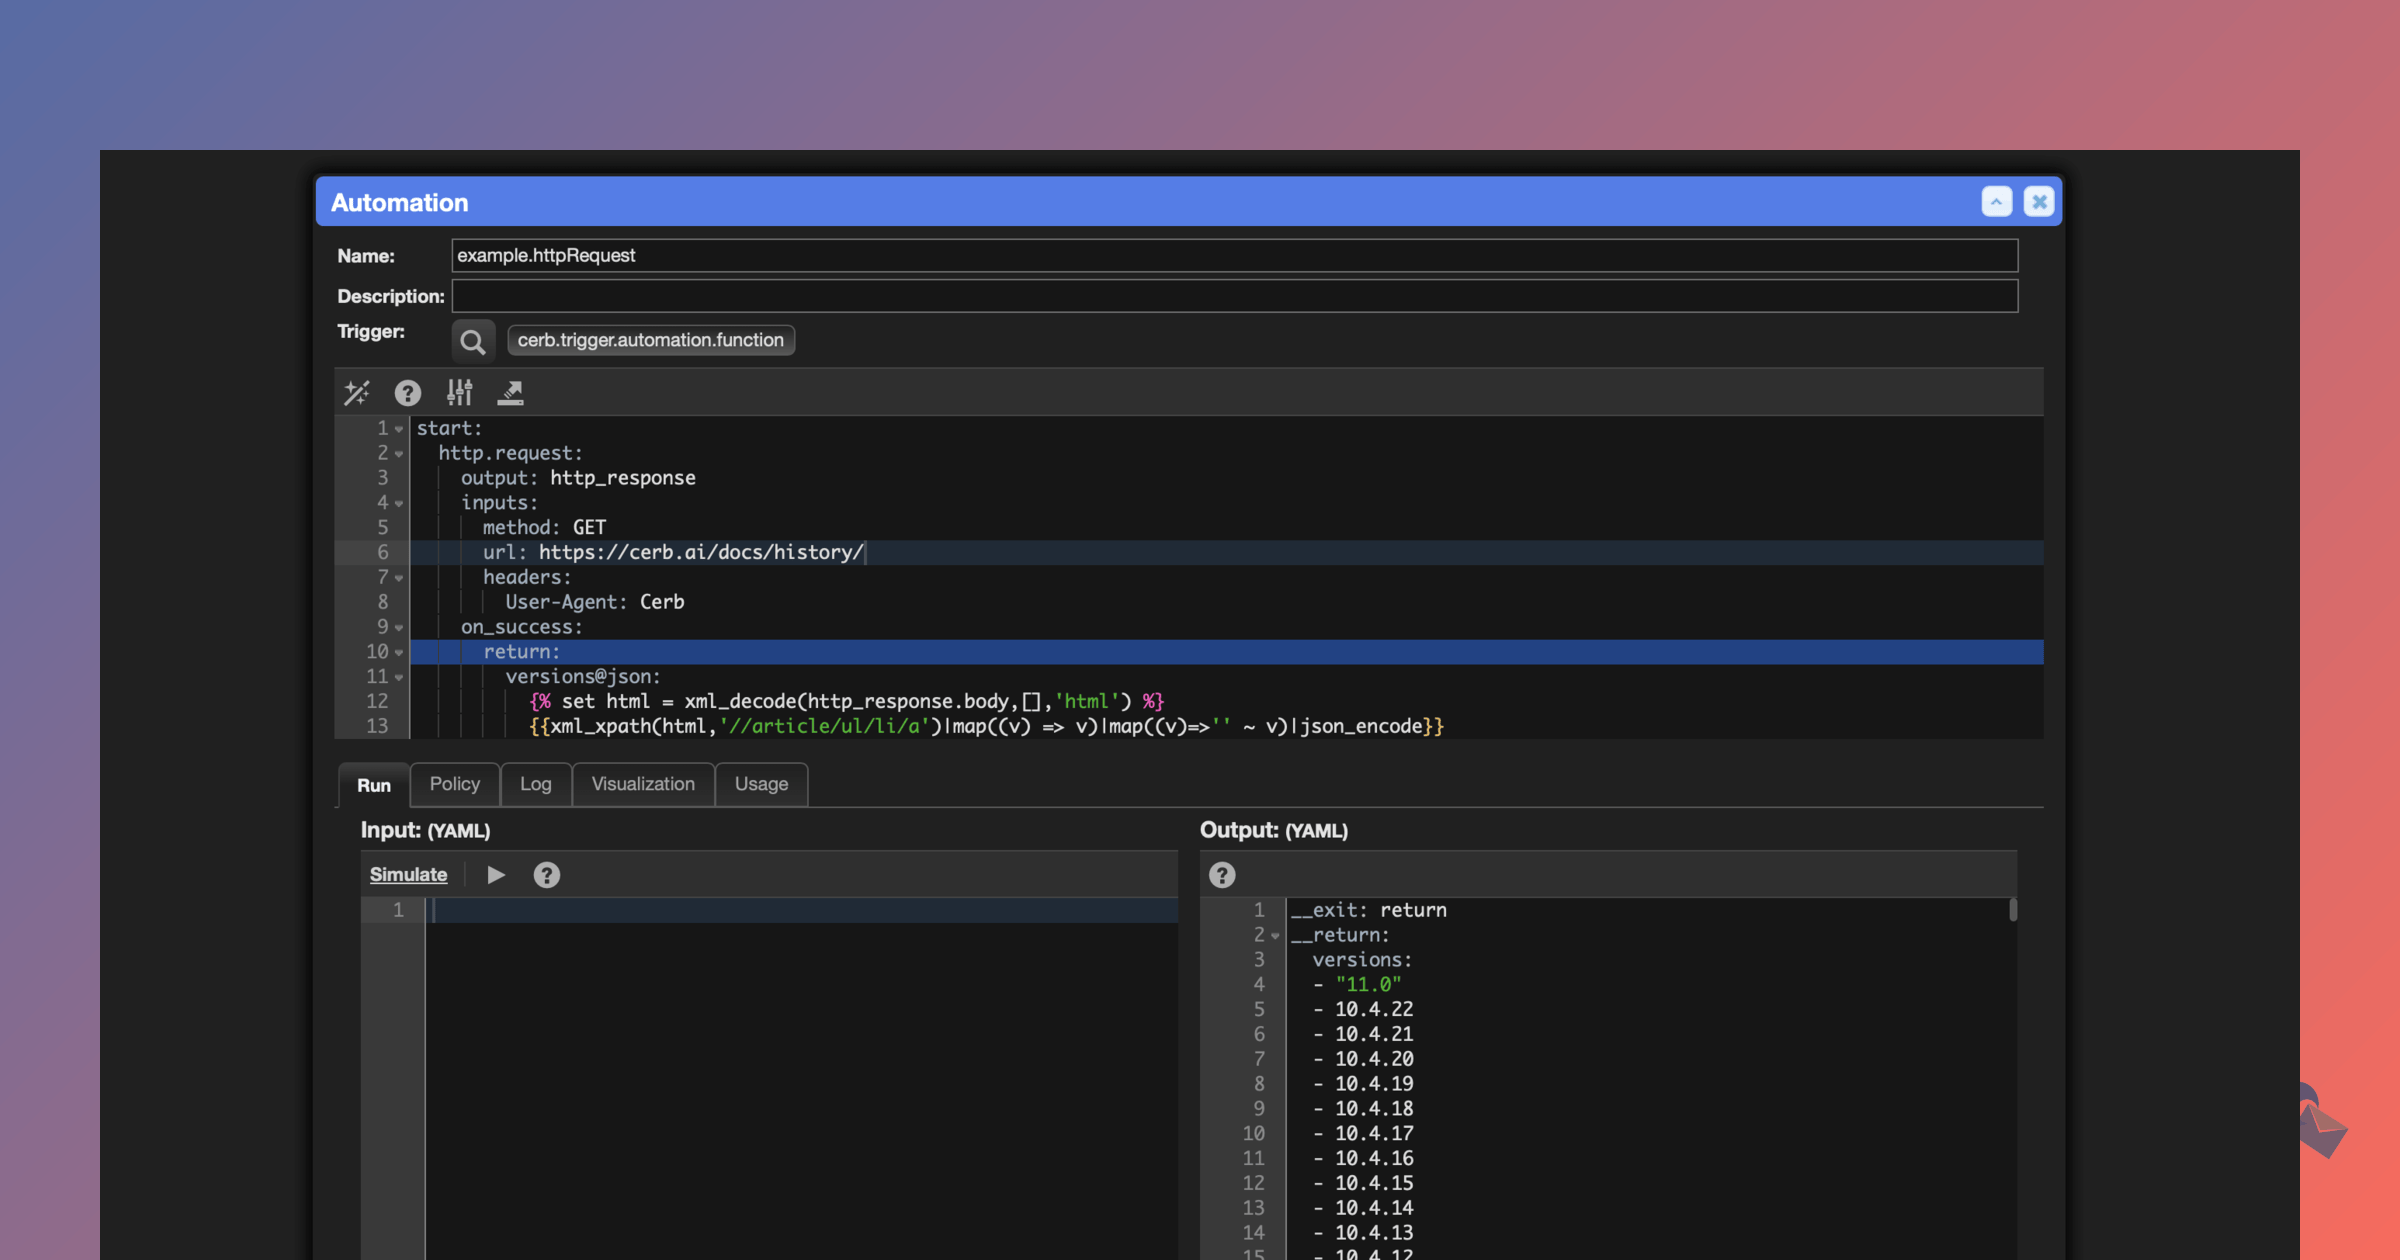
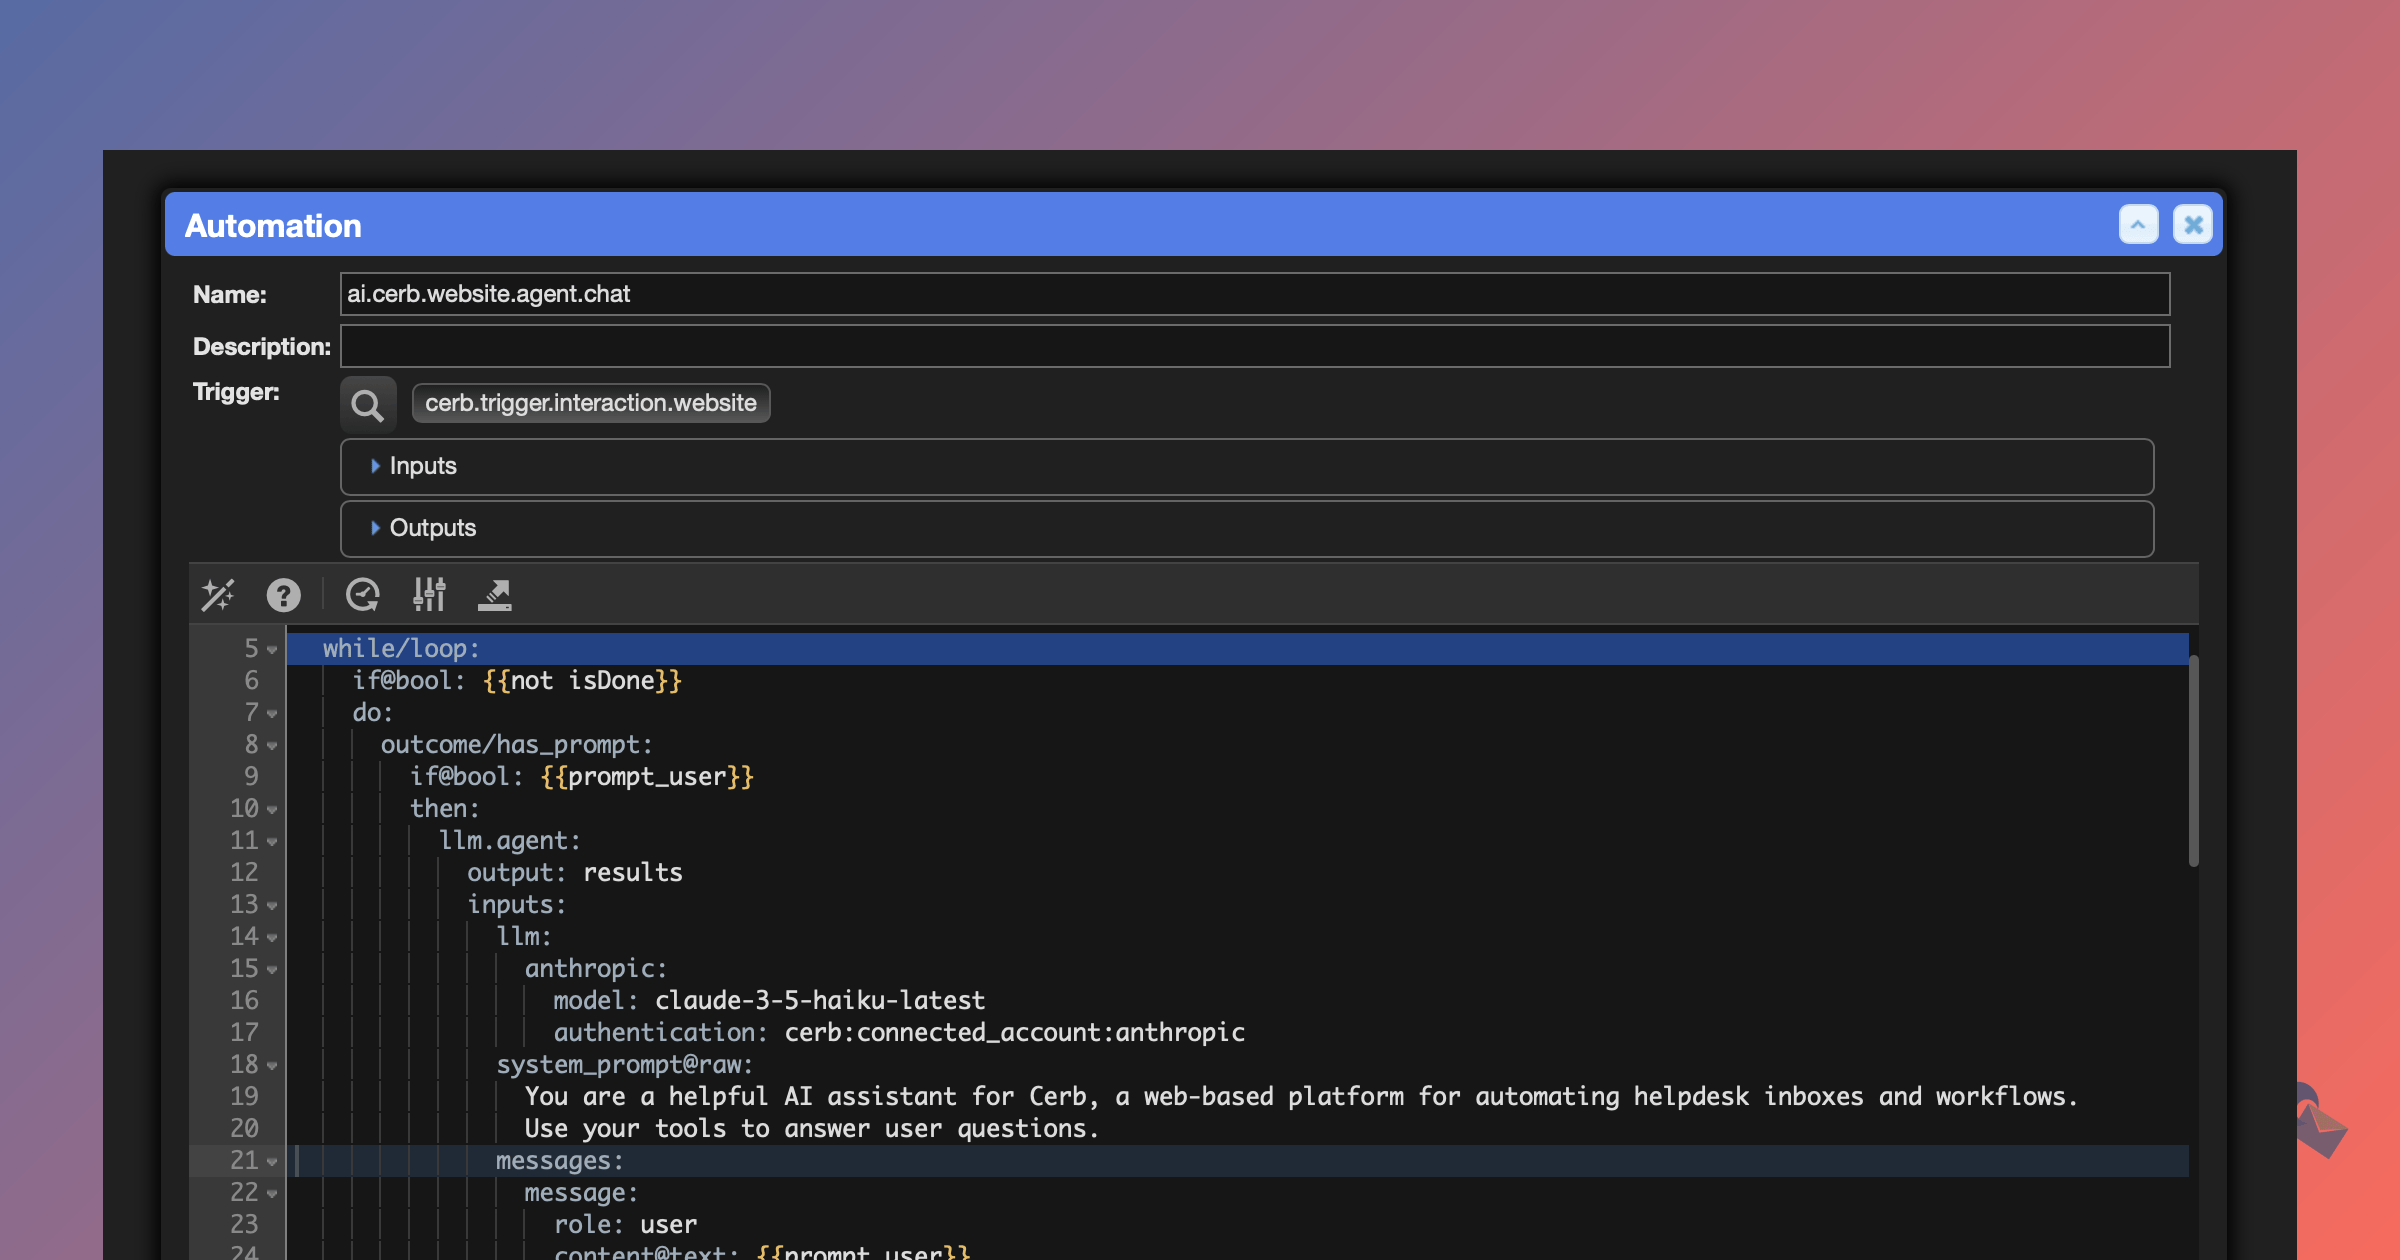
[Home] Streamlined the home page and simplified the description of Cerb's main functionality.

Changed region(s): [[0.0625, 0.1238, 0.9375, 1.0], [0.5312, 0.5571, 0.5938, 0.5881]]

diff --git a/index.html b/index.html
@@ -12,12 +12,12 @@ summary: "This page provides an overview of Cerb, an automation toolkit for cust
   free trials via Docker or Cerb Cloud and provides access to its source code on GitHub. Additionally, the
   page encourages users to subscribe to a newsletter for updates and resources related to Cerb."
 jumbotron:
-  title: Automate customer service inboxes and workflows
-  tagline: Manage high-volume email with automation, AI, personalized dashboards, and endless API integrations.
+  title: Cerb automates customer service inboxes and workflows
+  tagline: Build helpful AI agents, share high-productivity workspaces, and integrate with any API.
   style: jumbotron-center
 ---
 
-<div class="grid feature no-gutters" style="margin-bottom:50px;">
+<div class="grid no-gutters" style="margin-bottom:50px;">
 	<div class="unit one-third align-center" style="margin-top:10px;">
 		<a style="font-size:130%;color:black;font-weight:bold;" href="/docs/history/">Latest versions:</a>
 		<br>
@@ -35,109 +35,161 @@ jumbotron:
 </div>
 
 <div class="home features">
+	{% comment %}
 	<div class="feature">
 		<div class="align-center">
-			<p>
-				<b>Cerb</b> automates customer service inboxes and workflows.
-				It has evolved continuously since 2002 based on the feedback of thousands of teams; from solo founders to 1,000+ person enterprises managing millions of customer requests.
-			</p>
+			<h1>FEATURES</h1>
+		</div>
+	</div>
+	{% endcomment %}
 
-			<p>
-				Cerb integrates with any API-based service.
-				It can <a href="/docs/automations/">automate</a> nearly any repetitive digital process with its specialized <a href="/docs/kata/">KATA</a> language and browser-based coding tools.
-				Any toolbar in the UI can be extended with <a href="/docs/interactions/">interactive</a> multistep workflows that include human approval.
-			</p>
+	{% comment %}
+	<div class="feature half">
+		<div class="align-left">
+			<h2>Highlights</h2>
+			<ul>
+				<li>23+ years of continuous development</li>
+				<li>100% source-available license</li>
+				<li>Your first self-hosted seat is free forever</li>
+				<li>Scalable from solo founders to large enterprises</li>
+				<li>Deploy self-hosted or in Cerb Cloud</li>
+			</ul>
+		</div>
+	</div>
+	{% endcomment %}
 
-			<p>
-				Teams and individuals can build a personalized "mission control" using a wide array of configurable widgets to stay focused on their most important tasks.
-				Custom records and fields organize of any kind of task (email, social posts, orders, surveys, calls, tasks, text messages).
-				Pre-built solutions can be easily shared within the community using <a href="/resources/workflows/">workflows</a>.
-			</p>
+	<div class="feature half">
+		<div>
+			<a href="/docs/workspaces/">
+				<img src="/assets/images/home/features/thumbs/mission-control.png" width="1200" height="630" class="screenshot" style="width:100%;height:auto;">
+			</a>
+			<h2>Collaborative workspaces</h2>
+			<ul>
+				<li>Transform email and social accounts into a team inbox</li>
+				<li>Enable intelligent routing, assignment, and prioritization</li>
+				<li>Monitor tasks with real-time worklists and dashboards</li>
+				<li>Filter and manipulate data with powerful search and data queries</li>
+				<li>Follow notifications from any watched record activity or @mention</li>
+				<li>Bring your own data with custom records and fields</li>
+			</ul>
+		</div>
+	</div>
 
+	<div class="feature half">
+		<div class="align-left">
+			<a href="/docs/automations/">
+				<img src="/assets/images/home/features/thumbs/automate-workflows.png" width="1200" height="630" class="screenshot" style="width:100%;height:auto;">
+			</a>
+			<h2>Automations</h2>
+			<ul>
+				<li>Code from your browser with an integrated editor and debugger</li>
+				<li>Build rapidly with KATA -- our high-level automation language</li>
+				<li>Ditch the training wheels of vibe coding &amp; point-and-click tools</li>
+				<li>Trigger your code from events and interactive toolbars</li>
+				<li>Integrate with any web-based API</li>
+				<li>No programming experience required -- we'll help you learn</li>
+			</ul>
+		</div>
+	</div>
+
+	<div class="feature half">
+		<div class="align-left">
+			<a href="/docs/interactions/">
+				<img src="/assets/images/home/features/thumbs/interactive-agents.png" width="1200" height="630" class="screenshot" style="width:100%;height:auto;">
+			</a>
+			<h2>AI agents</h2>
+			<ul>
+				<li>Create conversational agents to assist workers and clients</li>
+				<li>Integrate with state-of-the-art language models from multiple providers</li>
+				<li>Give agents tools to reference knowledge and perform actions</li>
+				<li>Review chat transcripts to continuously improve agents</li>
+				<li>Transition seamlessly between chat and form-based interactions</li>
+				<li>Deploy agents on any website</li>
+			</ul>
+		</div>
+	</div>
+
+	<div class="feature half">
+		<div class="align-left">
+			<a href="/resources/workflows/">
+				<img src="/assets/images/home/features/thumbs/share-workflows.png" width="1200" height="630" class="screenshot" style="width:100%;height:auto;">
+			</a>
+			<h2>Versioned workflows</h2>
+			<ul>
+				<li>Build new features using Cerb's toolkit</li>
+				<li>Group related records and configuration into a workflow</li>
+				<li>Iterate confidently with a versioned change history</li>
+				<li>Synchronize changes through development, staging, and production</li>
+				<li>Enable pre-built workflows to save time</li>
+				<li>Collaborate with us to build exactly what you need</li>
+			</ul>
+		</div>
+	</div>
+
+	<div class="feature half">
+		<div class="align-left">
 			<p>
-				Try Cerb in <a href="/docs/installation/docker/">Docker</a> or <a href="/pricing/">Cerb Cloud</a> for free with no time limit.
-				100% of the source code is available on <a href="https://github.com/cerb/cerb-release/">GitHub</a>.
+				<a href="/solutions/#integrations">
+					<img src="/assets/images/home/features/thumbs/connected-accounts.png" width="1200" height="630" class="screenshot" style="width:100%;height:auto;">
+				</a>
 			</p>
+			<h2>Endless integrations</h2>
+			<ul>
+				<li>Use pre-configured connected services or create your own</li>
+				<li>Auth with OAuth, API keys, bearer tokens, HTTP basic, AWS, and more</li>
+				<li>Enable single sign-on with OpenID Connect and SAML identity providers</li>
+				<li>Trigger and catch webhooks for real-time event handling</li>
+				<li>Manage data through Cerb's OAuth2 REST API</li>
+				<li>Create customer-facing tools with community portals</li>
+			</ul>
+		</div>
+	</div>
+
+	<div class="feature half">
+		<div class="align-left">
+		</div>
+	</div>
+
+	<div class="feature">
+		<div class="align-center">
+			<h1>Deploy self-hosted or in Cerb Cloud</h1>
 		</div>
 	</div>
 
 	<div class="feature half">
 		<div class="align-center">
-			<h2>Build a personalized mission control</h2>
-			<p>
-				<a href="/docs/workspaces/">
-					<img src="/assets/images/home/features/mission-control.png" width="2400" height="1260" class="screenshot" style="width:100%;height:auto;">
-				</a>
-				<br>
-				Turn any email account into a team inbox.
-				Route, assign, and prioritize incoming email using automations.
-				Build and share custom <a href="/docs/workspaces/">workspaces</a> with <a href="/docs/worklists/">worklists</a>, <a href="/docs/sheets/">tables</a>, <a href="/docs/dashboards/widgets/chart-kata/">charts</a>, calendars, time-series data, <a href="/docs/interactions/">interactive automated shortcuts</a>, and more.
-				Use the built-in <a href="/docs/records/types/">record types</a> or <a href="/resources/guides/">synchronize data</a> with third-party sources.
-				Filter data with <a href="/docs/search/">search queries</a> and <a href="/docs/data-queries/">data queries</a>.
-				{% comment %}
-				Rather than having to repeatedly search for the same set of records, you can create a fully customizable <a href="/docs/worklists/">worklist</a> and add it to one of your <a href="/docs/workspaces/">workspaces</a>.
-				Customize the layout of <a href="/docs/profiles/">record pages</a> and <a href="/docs/cards/">card popups</a>.
-				Add <a href="/docs/dashboards/">dashboards</a> of widgets for visualizing charts, tables, time-series data, calendars, clocks, counters, gauges, worklists, and more.
-				Use <a href="/docs/data-queries/">data queries</a> to transform data from your records.
-				Import and display useful information from external data sources.
-				Create your own shortcuts to automate repetitive actions.
-				{% endcomment %}
-			</p>
+			<a href="/docs/installation/docker/" class="cerb-button">
+				Try Cerb in Docker
+			</a>
+			<ul>
+				<li>Installation takes less than 5 minutes</li>
+				<li>Your first self-hosted seat is free forever with no license or registration required</li>
+				<li>Add seats as your team grows</li>
+				<li>Every member of your team can run free local copies of Cerb for testing, development, and staging</li>
+				<li>Downgrade to a community license from self-hosted or Cerb Cloud at any time and retain permanent free access to your data</li>
+				<li>Cerb launches a guided tutorial on your first login</li>
+				<li>Switch seamlessly to Cerb Cloud at any time</li>
+			</ul>
 		</div>
 	</div>
 
 	<div class="feature half">
 		<div class="align-center">
-			<h2>Automate repetitive workflows</h2>
-			<p>
-				<a href="/docs/automations/">
-					<img src="/assets/images/home/features/automate-workflows.png" width="2400" height="1260" class="screenshot" style="width:100%;height:auto;">
-				</a>
-				<br>
-				Create sophisticated <a href="/docs/automations/">automations</a> using Cerb's low-code <a href="/docs/kata/">KATA</a> language and browser-based code editor.
-				Automate any action available in Cerb.
-				Generate dynamic values using inputs, placeholders, and <a href="/docs/scripting/">scripting</a>.
-				Trigger automations from <a href="/docs/automations/#events">events</a> or <a href="/docs/toolbars/">toolbars</a>.
-				Integrate with most web-based APIs using <a href="/docs/connected-services/">connected services</a> (AWS, Slack, Twilio, OpenAI, Hugging Face, GitHub, Dropbox, LinkedIn, Salesforce, and more).
-			</p>
-		</div>
-	</div>
-
-	<div class="feature half">
-		<div class="align-center">
-			<h2>Create interactive agents</h2>
-			<p>
-				<a href="/docs/interactions/">
-					<img src="/assets/images/home/features/interactive-agents.png" width="2400" height="1260" class="screenshot" style="width:100%;height:auto;">
-				</a>
-				<br>
-				Create multi-step dynamic <a href="/docs/interactions/">interactions</a> that gather input and present output with more than just text -- Markdown, data grids, images, maps, files, and more.
-				Integrate with models from Hugging Face, Ollama, OpenAI, <a href="/workflows/cerb.integrations.aws_bedrock.profile_images/">Amazon Bedrock</a>, and Stability AI.
-				<a href="/guides/machine-learning/question-answering/faq-bot-chatgpt/">Implement retrieval-augmented generation</a> using your existing self-help resources (docs, FAQs, articles).
-			</p>
-		</div>
-	</div>
-
-	<div class="feature half">
-		<div class="align-center">
-			<h2>Extend, integrate, and share</h2>
-			<p>
-				<a href="/resources/workflows/">
-					<img src="/assets/images/home/features/share-workflows.png" width="2400" height="1260" class="screenshot" style="width:100%;height:auto;">
-				</a>
-				<br>
-				Use <a href="/resources/workflows/">workflow</a> templates to build your own features with continuous integration and a versioned change history.
-				Keep multiple instances of Cerb in sync. Build workflows in development, test in staging, then deploy in production.
-				Share your solutions with the community.
-				Enable single sign-on functionality with any <a href="/guides/sso/azure-openid/">OpenID Connect</a> or <a href="/guides/sso/google-saml/">SAML</a> identity provider.
-				Trigger and catch <a href="/docs/webhooks/">webhooks</a> to handle real-time events with other services.
-				Access and manage your data from any service with Cerb's OAuth-based <a href="/docs/api/">REST API</a>.
-				Build customer-facing tools and services with <a href="/docs/portals/">community portals</a>.
-			</p>
+			<button type="button" class="cerb-button" data-cerb-interaction="signup">
+				Start a free Cerb Cloud trial
+			</button>
+			<ul>
+				<li>Highly available, secure, monitored, and scalable as a fully managed service</li>
+				<li>No time-limit as long as you're active, and no credit card is required</li>
+				<li>Deploy to secure servers in the United States, Europe, or Asia-Pacific</li>
+				<li>Compliant with EU-U.S. Data Privacy Framework (DPF) and GDPR</li>
+				<li>Automated, redundant, point-in-time backups with data recovery</li>
+				<li>Cerb Cloud SMTP for highly-deliverable, high-volume outgoing mail with SPF, DKIM, DMARC (or use your own mail server)</li>
+				<li>Cerb Cloud MX for instant delivery of inbound mail (or check any POP3/IMAP mailboxes)</li>
+				<li>Includes hosting for unlimited community portals (conversational bots, Support Centers)</li>
+				<li>Optionally bring your own domain name (e.g. support.example.com)</li>
+				<li>Switch seamlessly to self-hosted at any time</li>
+			</ul>
 		</div>
 	</div>
 </div>
-
-{% include tables/pricing.html %}
-
-{% include signup_button.html %}

diff --git a/_sass/_cerb.scss b/_sass/_cerb.scss
@@ -253,15 +253,19 @@ div.page-content {
 	flex-flow: row wrap;
 
 	.feature {
-		margin: 0px 0px 20px 0px;
+		margin: 0 0 20px 0;
 		flex: 2 2 100%;
+
+		> div {
+			padding: 1em;
+		}
 
 		&.half {
 			flex:1 1 50%;
 		}
 
 		h1 {
-			margin: 0px 0px 0px 0px;
+			margin: 0;
 			padding: 0;
 			font-weight: bold;
 			font-size: 2.7em;
@@ -274,28 +278,20 @@ div.page-content {
 			font-size: 1.8em;
 		}
 
-		p, ul {
-			margin: 0 20px;
+		p {
+			padding: 1em;
 			text-align: left;
-		}
-		
-		p { 
-			margin-bottom: 15px;
+			margin-bottom: 0;
 		}
 		
 		ul {
 			text-align: left;
 			list-style: circle;
-			margin-top: 10px;
-			
-			li {
-				margin-bottom: 10px;
-			}
 		}
 		
 		div.screenshot {
 			margin: 25px 0 0 0;
-			
+
 			img {
 				border: 1px solid rgb(235,235,235);
 
@@ -1026,7 +1022,7 @@ span.client-singularityu-org { background-position: -525px -760px; }
 span.client-seti-org { background-position: -700px -760px; }
 span.client-kiva-org { background-position: -875px -760px; }
 
-@media screen and (max-width: 600px) {
+@media screen and (max-width: 750px) {
 	.features {
 		.feature {
 			&.half {
